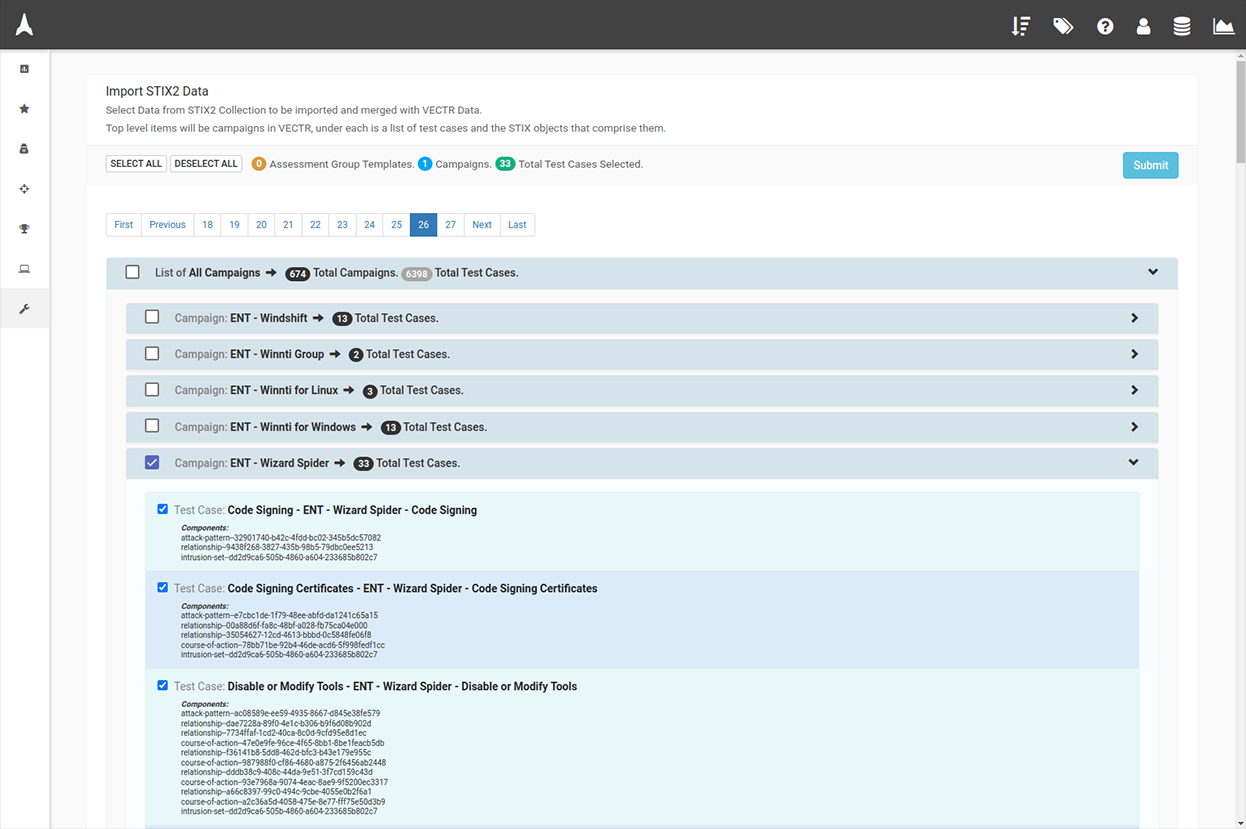
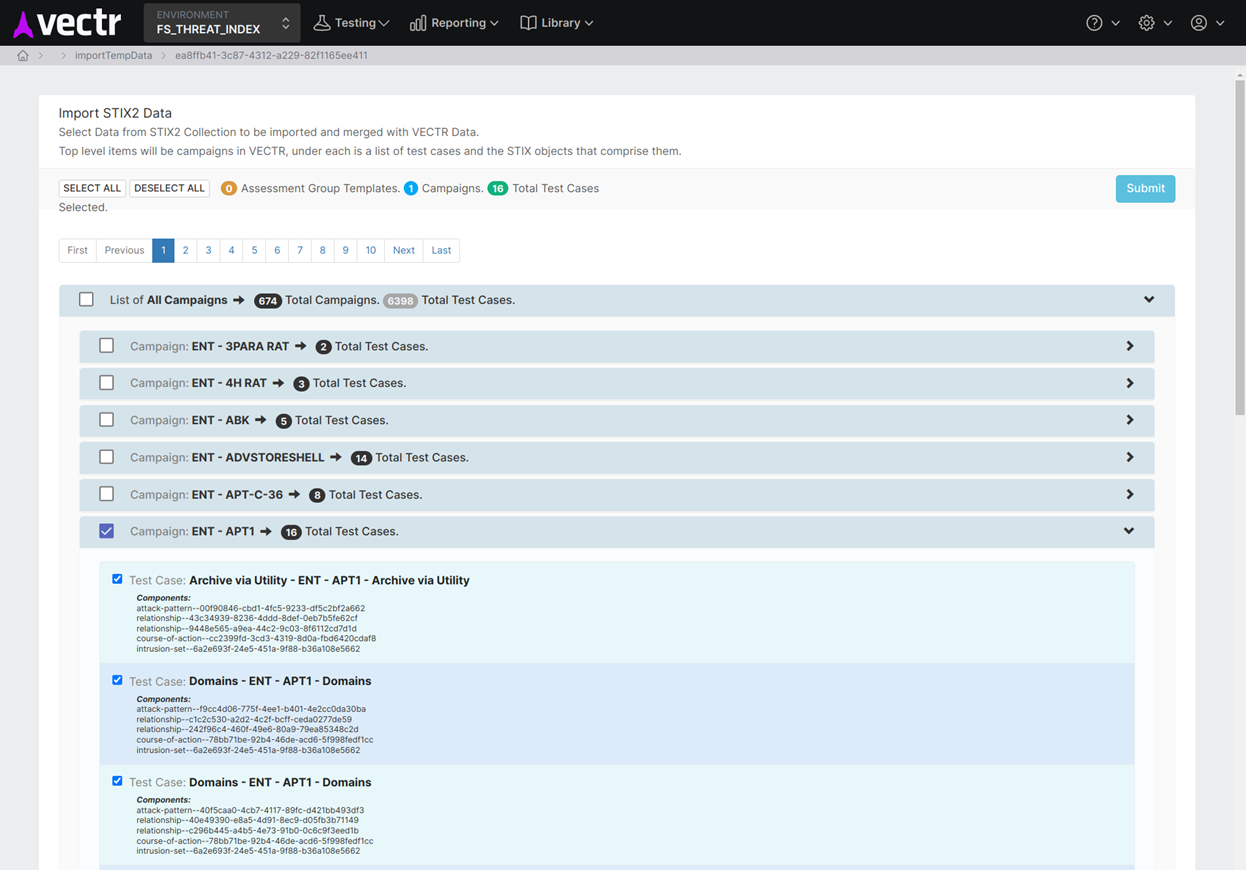
Updated readme to reflex new UI in screenshots; minor text changes

diff --git a/README.md b/README.md
@@ -5,7 +5,7 @@
 
 ####
 
-VECTR documentation can be found here:
+VECTR documentation:
 [https://docs.vectr.io](https://docs.vectr.io)
 
 VECTR Community Discord Channel:
@@ -15,44 +15,58 @@ VECTR is a tool that facilitates tracking of your red and blue team testing acti
 
 VECTR is focused on common indicators of attack and behaviors that may be carried out by any number of threat actor groups, with varying objectives and levels of sophistication.  VECTR can also be used to replicate the step-by-step TTPs associated with specific groups and malware campaigns, however its primary purpose is to replicate attacker behaviors that span multiple threat actor groups and malware campaigns, past, present and future.  VECTR is meant to be used over time with targeted campaigns, iteration, and measurable enhancements to both red team skills and blue team detection capabilities.  Ultimately the goal of VECTR is to make a network resilient to all but the most sophisticated adversaries and insider attacks.
 
-# ![VECTR](media/VectrHeatmapSubtechniques.png)
+# ![VECTR Heatmap](media/VectrHeatmapSubtechniques.png)
 
-# ![VECTR](media/historicalTrending.png)
+# ![Historial Trending](media/historicalTrending.png)
 
-# ![VECTR](media/ImportData.png)
+# ![Data Import](media/ImportData.png)
 
-# ![VECTR](media/AdvancedTracking.png)
+# ![Attack Escalation Graph](media/AdvancedTracking.png)
 
-# ![VECTR](media/AutomatedAttack.png)
+# ![Attack Automation](media/AutomatedAttack.png)
 
-## Documentation
+## Getting Started
 
-### Feature Breakdowns By Release
+See the [Install Guide](https://docs.vectr.io/Installation/).
 
-[VECTR v8.0.0 Feature Breakdown](https://github.com/SecurityRiskAdvisors/VECTR/blob/master/media/VECTR%20v8_0_0%20Feature%20Breakdown.pdf)
+### Supported Platforms
 
-## Team
-LEAD PROGRAMMERS:
-* Carl Vonderheid
+* Current Ubuntu LTS Releases (18.04 - 22.04)
+
+Community support is primarily limited to Ubuntu LTS Releases. If you encounter issues feel free to open an issue on [GitHub](https://github.com/SecurityRiskAdvisors/VECTR) or join us on [Discord](https://discord.gg/VEDtmCrCpj).
+
+VECTR should run in most containerization environments. If in enterprise we recommend consulting your Infrastructure/Containerization team for guidance. Or reach out directly via the [contact form](https://vectr.io/) at bottom of page for a consulting engagement.
+
+Please read the instructions carefully for [Upgrading a VECTR instance](https://docs.vectr.io/Upgrading-an-existing-VECTR-installation/).
+
+#### Browsers
+
+Most modern browsers, such as Chrome, Firefox, Edge (Chromium) up to two prior releases are supported. We recommend using the latest of either:
+
+* Chrome 
+* Firefox
+	
+## General
+
+* Presentation layer built on Vue 3 with some legacy AngularJS components.
+* GraphQL API
+* Support for TLS endpoints (VECTR Community Edition will auto-generate an untrusted self-signed cert or can be supplied with certs).
+
+
+## Contributors
+
 * Galen Fisher
-* Daniel Hong
-
-PROGRAMMERS:
+* Ryan Fortin
 * James Geraghty
 * Zara Gunner
 * Dan Guzek
 * Patrick Hislop
+* Daniel Hong
+* Fevzi Kipici
 * Bhavika Patel
-
-DESIGN & REQUIREMENTS:
-* Phil Wainwright
-
-DEV OPS:
 * Paul Spencer
-* Ryan Fortin
-
-GRAPHIC DESIGN & MARKETING:
-* Doug Webster
+* Carl Vonderheid
+* Phil Wainwright
 
 
 [![Security Risk Advisors](media/SRA-logo-primary-small.png)](https://sra.io)
